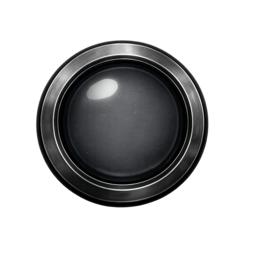
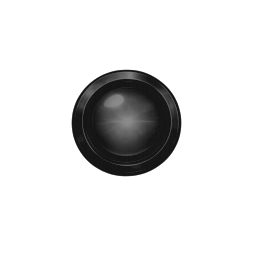
ui: prototipa painel industrial com leds normalizados

Changed region(s): [[0.125, 0.1562, 0.8438, 0.8125], [0.4688, 0.4375, 0.5312, 0.5]]

diff --git a/app/TestadorCLPHI.App/Ui/Controls/IndustrialDigitalIoPanelControl.cs b/app/TestadorCLPHI.App/Ui/Controls/IndustrialDigitalIoPanelControl.cs
@@ -1,0 +1,213 @@
+using System.IO;
+
+namespace TestadorCLPHI.App.Ui.Controls;
+
+public sealed class IndustrialDigitalIoPanelControl : UserControl
+{
+    private readonly IndustrialLedIndicatorControl[] _inputIndicators = new IndustrialLedIndicatorControl[8];
+
+    public IndustrialDigitalIoPanelControl()
+    {
+        Dock = DockStyle.Fill;
+        BackColor = Color.FromArgb(18, 24, 32);
+        Padding = new Padding(18);
+
+        TableLayoutPanel rootLayout = new()
+        {
+            Dock = DockStyle.Fill,
+            ColumnCount = 1,
+            RowCount = 4,
+            BackColor = Color.Transparent,
+            Padding = new Padding(0)
+        };
+
+        rootLayout.RowStyles.Add(new RowStyle(SizeType.Absolute, 54));
+        rootLayout.RowStyles.Add(new RowStyle(SizeType.Absolute, 112));
+        rootLayout.RowStyles.Add(new RowStyle(SizeType.Absolute, 108));
+        rootLayout.RowStyles.Add(new RowStyle(SizeType.Percent, 100));
+
+        rootLayout.Controls.Add(CreateHeaderPanel(), 0, 0);
+        rootLayout.Controls.Add(CreateOutputsPanel(), 0, 1);
+        rootLayout.Controls.Add(CreateInputsPanel(), 0, 2);
+        rootLayout.Controls.Add(CreateFooterPanel(), 0, 3);
+
+        Controls.Add(rootLayout);
+    }
+
+    public void SetInputState(int channel, bool active)
+    {
+        if (channel < 0 || channel >= _inputIndicators.Length)
+        {
+            return;
+        }
+
+        _inputIndicators[channel].IsOn = active;
+    }
+
+    private static Panel CreateHeaderPanel()
+    {
+        Panel panel = CreateCardPanel();
+
+        Label title = new()
+        {
+            Text = "Painel manual industrial 4DO/8DI",
+            AutoSize = true,
+            ForeColor = Color.FromArgb(226, 232, 240),
+            Font = new Font("Segoe UI", 13F, FontStyle.Bold),
+            Left = 16,
+            Top = 10
+        };
+
+        Label subtitle = new()
+        {
+            Text = "Protótipo visual isolado — sem lógica Modbus e sem alterar MainForm",
+            AutoSize = true,
+            ForeColor = Color.FromArgb(148, 163, 184),
+            Font = new Font("Segoe UI", 9F),
+            Left = 18,
+            Top = 34
+        };
+
+        panel.Controls.Add(title);
+        panel.Controls.Add(subtitle);
+
+        return panel;
+    }
+
+    private static Panel CreateOutputsPanel()
+    {
+        Panel panel = CreateCardPanel();
+        panel.Padding = new Padding(14);
+
+        Label title = new()
+        {
+            Text = "Saídas digitais - DO",
+            AutoSize = true,
+            ForeColor = Color.FromArgb(226, 232, 240),
+            Font = new Font("Segoe UI", 10F, FontStyle.Bold),
+            Dock = DockStyle.Top,
+            Height = 24
+        };
+
+        FlowLayoutPanel flow = new()
+        {
+            Dock = DockStyle.Fill,
+            FlowDirection = FlowDirection.LeftToRight,
+            WrapContents = false,
+            AutoScroll = false,
+            Padding = new Padding(0, 8, 0, 0),
+            BackColor = Color.Transparent
+        };
+
+        string[] outputs =
+        [
+            "D000 -> DI00 + DI04",
+            "D001 -> DI01 + DI05",
+            "D002 -> DI02 + DI06",
+            "D003 -> DI03 + DI07"
+        ];
+
+        for (int i = 0; i < outputs.Length; i++)
+        {
+            Button button = new()
+            {
+                Text = outputs[i],
+                Width = 154,
+                Height = 48,
+                Margin = new Padding(0, 0, 12, 0),
+                FlatStyle = FlatStyle.Flat,
+                BackColor = Color.FromArgb(35, 45, 58),
+                ForeColor = Color.FromArgb(226, 232, 240),
+                Font = new Font("Segoe UI", 8.5F, FontStyle.Bold)
+            };
+
+            button.FlatAppearance.BorderColor = Color.FromArgb(71, 85, 105);
+            button.FlatAppearance.MouseOverBackColor = Color.FromArgb(51, 65, 85);
+
+            flow.Controls.Add(button);
+        }
+
+        panel.Controls.Add(flow);
+        panel.Controls.Add(title);
+
+        return panel;
+    }
+
+    private Panel CreateInputsPanel()
+    {
+        Panel panel = CreateCardPanel();
+        panel.Padding = new Padding(14);
+
+        Label title = new()
+        {
+            Text = "Entradas digitais - DI",
+            AutoSize = true,
+            ForeColor = Color.FromArgb(226, 232, 240),
+            Font = new Font("Segoe UI", 10F, FontStyle.Bold),
+            Dock = DockStyle.Top,
+            Height = 24
+        };
+
+        FlowLayoutPanel flow = new()
+        {
+            Dock = DockStyle.Fill,
+            FlowDirection = FlowDirection.LeftToRight,
+            WrapContents = false,
+            AutoScroll = false,
+            Padding = new Padding(0, 6, 0, 0),
+            BackColor = Color.Transparent
+        };
+
+        string onImagePath = Path.Combine(AppContext.BaseDirectory, "Assets", "Ui", "led_on_green.png");
+        string offImagePath = Path.Combine(AppContext.BaseDirectory, "Assets", "Ui", "led_off_gray.png");
+
+        for (int channel = 0; channel < _inputIndicators.Length; channel++)
+        {
+            IndustrialLedIndicatorControl indicator = new()
+            {
+                LabelText = $"DI{channel:00}",
+                IsOn = channel is 0 or 3 or 4,
+                Margin = new Padding(0, 0, 13, 0),
+                Font = new Font("Segoe UI", 8F, FontStyle.Bold)
+            };
+
+            _inputIndicators[channel] = indicator;
+            indicator.LoadImages(onImagePath, offImagePath);
+            flow.Controls.Add(indicator);
+        }
+
+        panel.Controls.Add(flow);
+        panel.Controls.Add(title);
+
+        return panel;
+    }
+
+    private static Panel CreateFooterPanel()
+    {
+        Panel panel = CreateCardPanel();
+
+        Label label = new()
+        {
+            Text = "Área reservada para validação de espaçamento: o terminal/log do app principal deve permanecer visível após integração.",
+            Dock = DockStyle.Fill,
+            TextAlign = ContentAlignment.MiddleLeft,
+            Padding = new Padding(16, 0, 16, 0),
+            ForeColor = Color.FromArgb(148, 163, 184),
+            Font = new Font("Segoe UI", 9F)
+        };
+
+        panel.Controls.Add(label);
+
+        return panel;
+    }
+
+    private static Panel CreateCardPanel()
+    {
+        return new Panel
+        {
+            Dock = DockStyle.Fill,
+            Margin = new Padding(0, 0, 0, 10),
+            BackColor = Color.FromArgb(25, 33, 43)
+        };
+    }
+}

diff --git a/app/TestadorCLPHI.App/Ui/Controls/IndustrialLedIndicatorControl.cs b/app/TestadorCLPHI.App/Ui/Controls/IndustrialLedIndicatorControl.cs
@@ -1,0 +1,90 @@
+using System.IO;
+
+namespace TestadorCLPHI.App.Ui.Controls;
+
+public sealed class IndustrialLedIndicatorControl : UserControl
+{
+    private readonly PictureBox _pictureBox;
+    private readonly Label _label;
+    private Image? _onImage;
+    private Image? _offImage;
+    private bool _isOn;
+
+    public IndustrialLedIndicatorControl()
+    {
+        Width = 64;
+        Height = 72;
+        BackColor = Color.Transparent;
+        Margin = new Padding(0, 0, 14, 0);
+
+        _pictureBox = new PictureBox
+        {
+            Width = 48,
+            Height = 48,
+            Left = 8,
+            Top = 0,
+            BackColor = Color.Transparent,
+            SizeMode = PictureBoxSizeMode.Zoom
+        };
+
+        _label = new Label
+        {
+            Width = 64,
+            Height = 18,
+            Left = 0,
+            Top = 50,
+            Text = "DI",
+            TextAlign = ContentAlignment.MiddleCenter,
+            ForeColor = Color.FromArgb(203, 213, 225),
+            Font = new Font("Segoe UI", 8F, FontStyle.Bold),
+            BackColor = Color.Transparent
+        };
+
+        Controls.Add(_pictureBox);
+        Controls.Add(_label);
+    }
+
+    public string LabelText
+    {
+        get => _label.Text;
+        set => _label.Text = string.IsNullOrWhiteSpace(value) ? "DI" : value.Trim();
+    }
+
+    public bool IsOn
+    {
+        get => _isOn;
+        set
+        {
+            _isOn = value;
+            UpdateImage();
+        }
+    }
+
+    public void LoadImages(string onImagePath, string offImagePath)
+    {
+        _onImage?.Dispose();
+        _offImage?.Dispose();
+
+        _onImage = File.Exists(onImagePath) ? new Bitmap(onImagePath) : null;
+        _offImage = File.Exists(offImagePath) ? new Bitmap(offImagePath) : null;
+
+        UpdateImage();
+    }
+
+    protected override void Dispose(bool disposing)
+    {
+        if (disposing)
+        {
+            _pictureBox.Image = null;
+            _onImage?.Dispose();
+            _offImage?.Dispose();
+        }
+
+        base.Dispose(disposing);
+    }
+
+    private void UpdateImage()
+    {
+        _pictureBox.Image = _isOn ? _onImage : _offImage;
+    }
+}

diff --git a/app/TestadorCLPHI.App/Ui/Controls/IndustrialDigitalIoPanelPreviewForm.cs b/app/TestadorCLPHI.App/Ui/Controls/IndustrialDigitalIoPanelPreviewForm.cs
@@ -11,27 +11,11 @@ public sealed class IndustrialDigitalIoPanelPreviewForm : Form
         MinimumSize = new Size(760, 420);
         BackColor = Color.FromArgb(18, 24, 32);
 
-        Label titleLabel = new()
+        IndustrialDigitalIoPanelControl panel = new()
         {
-            Text = "Preview isolado do painel industrial 4DO/8DI",
-            AutoSize = true,
-            ForeColor = Color.FromArgb(226, 232, 240),
-            Font = new Font("Segoe UI", 14F, FontStyle.Bold),
-            Left = 24,
-            Top = 24
+            Dock = DockStyle.Fill
         };
 
-        Label subtitleLabel = new()
-        {
-            Text = "Ambiente de teste visual sem alterar MainForm nem lógica Modbus.",
-            AutoSize = true,
-            ForeColor = Color.FromArgb(148, 163, 184),
-            Font = new Font("Segoe UI", 9F, FontStyle.Regular),
-            Left = 26,
-            Top = 58
-        };
-
-        Controls.Add(titleLabel);
-        Controls.Add(subtitleLabel);
+        Controls.Add(panel);
     }
 }